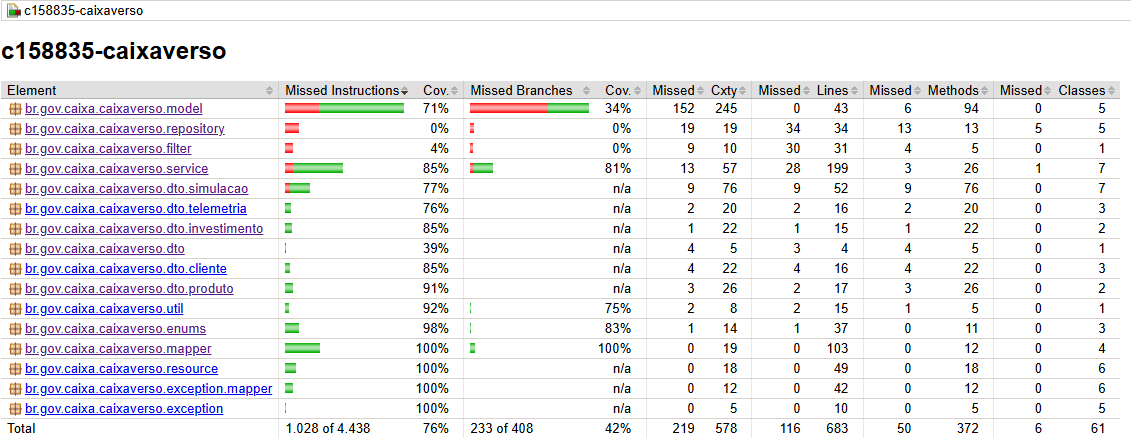
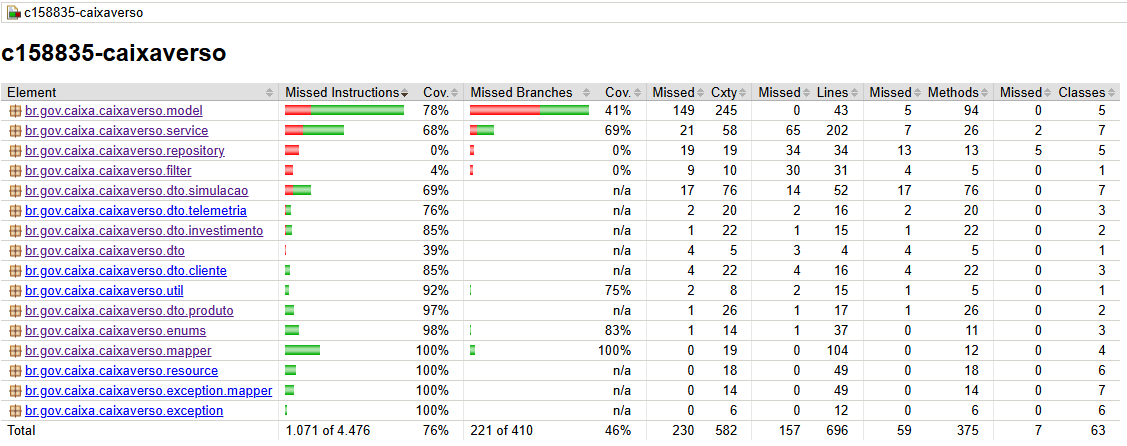
Ajustes finais no projeto

diff --git a/src/test/java/br/gov/caixa/caixaverso/service/SimulacaoServiceTest.java b/src/test/java/br/gov/caixa/caixaverso/service/SimulacaoServiceTest.java
@@ -8,6 +8,7 @@ import br.gov.caixa.caixaverso.dto.simulacao.SimulacaoProdutoDiaRetornoDto;
 import br.gov.caixa.caixaverso.enums.NivelRisco;
 import br.gov.caixa.caixaverso.enums.TipoProduto;
 import br.gov.caixa.caixaverso.exception.ClienteNaoEncontradoException;
+import br.gov.caixa.caixaverso.exception.DataSimulacaoInvalidaException;
 import br.gov.caixa.caixaverso.exception.TipoProdutoInvalidoException;
 import br.gov.caixa.caixaverso.mapper.SimulacaoMapper;
 import br.gov.caixa.caixaverso.model.Cliente;
@@ -129,6 +130,15 @@ public class SimulacaoServiceTest {
         simulacaoService.obterSimulacoesPorProdutoEDia(null);
 
         verify(simulacaoRepository).buscarPorData(LocalDate.now());
+    }
+
+    @Test
+    void testObterSimulacoesPorProdutoEDiaFormatoDataInvalidoLancaExcecao() {
+        String dataInvalida = "15/05/2024";
+
+        assertThrows(DataSimulacaoInvalidaException.class, () ->
+                simulacaoService.obterSimulacoesPorProdutoEDia(dataInvalida)
+        );
     }
 
     @Test

diff --git a/src/test/java/br/gov/caixa/caixaverso/exception/mapper/DataSimulacaoInvalidaExceptionMapperTest.java b/src/test/java/br/gov/caixa/caixaverso/exception/mapper/DataSimulacaoInvalidaExceptionMapperTest.java
@@ -1,0 +1,24 @@
+package br.gov.caixa.caixaverso.exception.mapper;
+
+import br.gov.caixa.caixaverso.dto.RespostaExceptionDto;
+import br.gov.caixa.caixaverso.exception.DataSimulacaoInvalidaException;
+import jakarta.ws.rs.core.Response;
+import org.junit.jupiter.api.Test;
+
+import static org.junit.jupiter.api.Assertions.assertEquals;
+import static org.junit.jupiter.api.Assertions.assertInstanceOf;
+
+public class DataSimulacaoInvalidaExceptionMapperTest {
+
+    private final DataSimulacaoInvalidaExceptionMapper mapper = new DataSimulacaoInvalidaExceptionMapper();
+
+    @Test
+    void testDataSimulacaoInvalidaExceptionMapperToResponse(){
+        DataSimulacaoInvalidaException e = new DataSimulacaoInvalidaException();
+
+        try (Response response = mapper.toResponse(e)) {
+            assertEquals(Response.Status.BAD_REQUEST.getStatusCode(), response.getStatus());
+            assertInstanceOf(RespostaExceptionDto.class, response.getEntity());
+        }
+    }
+}

diff --git a/src/main/java/br/gov/caixa/caixaverso/exception/mapper/DataSimulacaoInvalidaExceptionMapper.java b/src/main/java/br/gov/caixa/caixaverso/exception/mapper/DataSimulacaoInvalidaExceptionMapper.java
@@ -1,0 +1,24 @@
+package br.gov.caixa.caixaverso.exception.mapper;
+
+import br.gov.caixa.caixaverso.dto.RespostaExceptionDto;
+import br.gov.caixa.caixaverso.exception.DataSimulacaoInvalidaException;
+import jakarta.ws.rs.core.Response;
+import jakarta.ws.rs.ext.ExceptionMapper;
+import jakarta.ws.rs.ext.Provider;
+
+@Provider
+public class DataSimulacaoInvalidaExceptionMapper implements ExceptionMapper<DataSimulacaoInvalidaException> {
+
+    @Override
+    public Response toResponse(DataSimulacaoInvalidaException exception) {
+
+        RespostaExceptionDto respostaExceptionDto = new RespostaExceptionDto(
+                exception.getMessage(),
+                Response.Status.BAD_REQUEST.getStatusCode()
+        );
+
+        return Response.status(Response.Status.BAD_REQUEST)
+                .entity(respostaExceptionDto)
+                .build();
+    }
+}

diff --git a/src/main/java/br/gov/caixa/caixaverso/service/SimulacaoService.java b/src/main/java/br/gov/caixa/caixaverso/service/SimulacaoService.java
@@ -3,6 +3,7 @@ package br.gov.caixa.caixaverso.service;
 import br.gov.caixa.caixaverso.dto.simulacao.*;
 import br.gov.caixa.caixaverso.enums.TipoProduto;
 import br.gov.caixa.caixaverso.exception.ClienteNaoEncontradoException;
+import br.gov.caixa.caixaverso.exception.DataSimulacaoInvalidaException;
 import br.gov.caixa.caixaverso.exception.TipoProdutoInvalidoException;
 import br.gov.caixa.caixaverso.mapper.SimulacaoMapper;
 import br.gov.caixa.caixaverso.model.Cliente;
@@ -49,6 +50,10 @@ public class SimulacaoService {
 
         LocalDate dataConsulta;
         if (data != null) {
+            if(!data.matches("^\\d{4}-\\d{2}-\\d{2}$")){
+                throw new DataSimulacaoInvalidaException();
+            }
+
             dataConsulta = LocalDate.parse(data);
         } else {
             dataConsulta = LocalDate.now();

diff --git a/src/main/java/br/gov/caixa/caixaverso/exception/TipoProdutoInvalidoException.java b/src/main/java/br/gov/caixa/caixaverso/exception/TipoProdutoInvalidoException.java
@@ -4,6 +4,6 @@ import br.gov.caixa.caixaverso.enums.TipoProduto;
 
 public class TipoProdutoInvalidoException extends RuntimeException {
     public TipoProdutoInvalidoException(String texto) {
-        super("Produto do tipo" + texto + "inválido, \n Produtos disponíveis: " + TipoProduto.tipoProdutosDisponiveis());
+        super("Produto do tipo " + texto + " inválido, Produtos disponíveis: " + TipoProduto.tipoProdutosDisponiveis());
     }
 }

diff --git a/src/main/java/br/gov/caixa/caixaverso/enums/TipoProduto.java b/src/main/java/br/gov/caixa/caixaverso/enums/TipoProduto.java
@@ -35,7 +35,7 @@ public enum TipoProduto {
 
         String currTipo;
         for(TipoProduto tipoProduto : TipoProduto.values()){
-            currTipo = tipoProduto.getNome() + "\n";
+            currTipo = tipoProduto.getNome() + ", ";
             tipos.append(currTipo);
         }
 

diff --git a/src/main/java/br/gov/caixa/caixaverso/exception/DataSimulacaoInvalidaException.java b/src/main/java/br/gov/caixa/caixaverso/exception/DataSimulacaoInvalidaException.java
@@ -1,0 +1,7 @@
+package br.gov.caixa.caixaverso.exception;
+
+public class DataSimulacaoInvalidaException extends RuntimeException {
+    public DataSimulacaoInvalidaException() {
+        super("Data não está no formato yyyy-MM-dd, insira uma data válida");
+    }
+}
